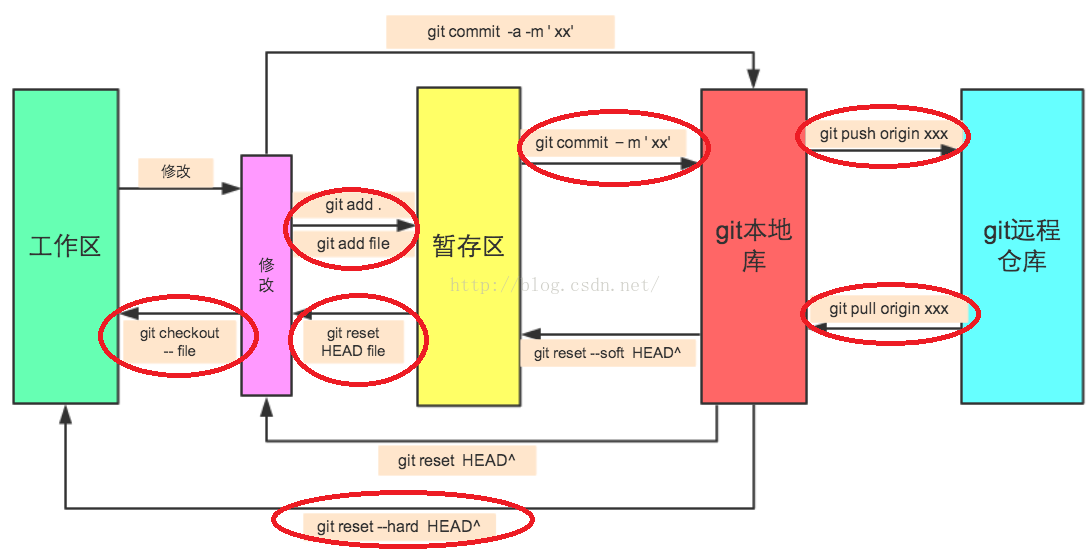
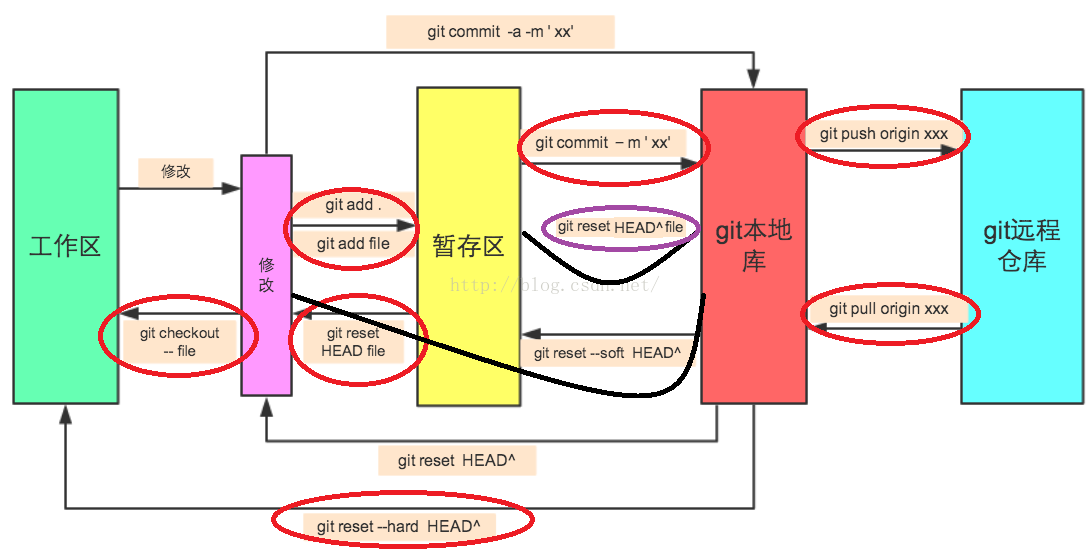
git flow finished

diff --git a/Git tutorial.md b/Git tutorial.md
@@ -66,7 +66,15 @@
 
    ![](git-flow.png)
 
-6. 删除文件
+   
+
+6. 部分修改
+
+   重要概念：**当修改与暂存区都无东西时，工作区与本地库相等。**如果有一个东西，那么说明两者不相等。而如果commit了a文件和b文件，想保留新的a文件和上一版本的b文件，那用**git reset HEAD^ b**把上一版本中的b文件重新放入缓存区以及修改处。**此时工作区和本地库相等都是HEAD版本，所以需要checkout和commit同时修改工作区和本地库**。
+
+   ![](git reset HEAD^ file.png)
+
+7. 删除文件
 
 
    其实这里的删除文件是上图中修改的一个例子而已。
